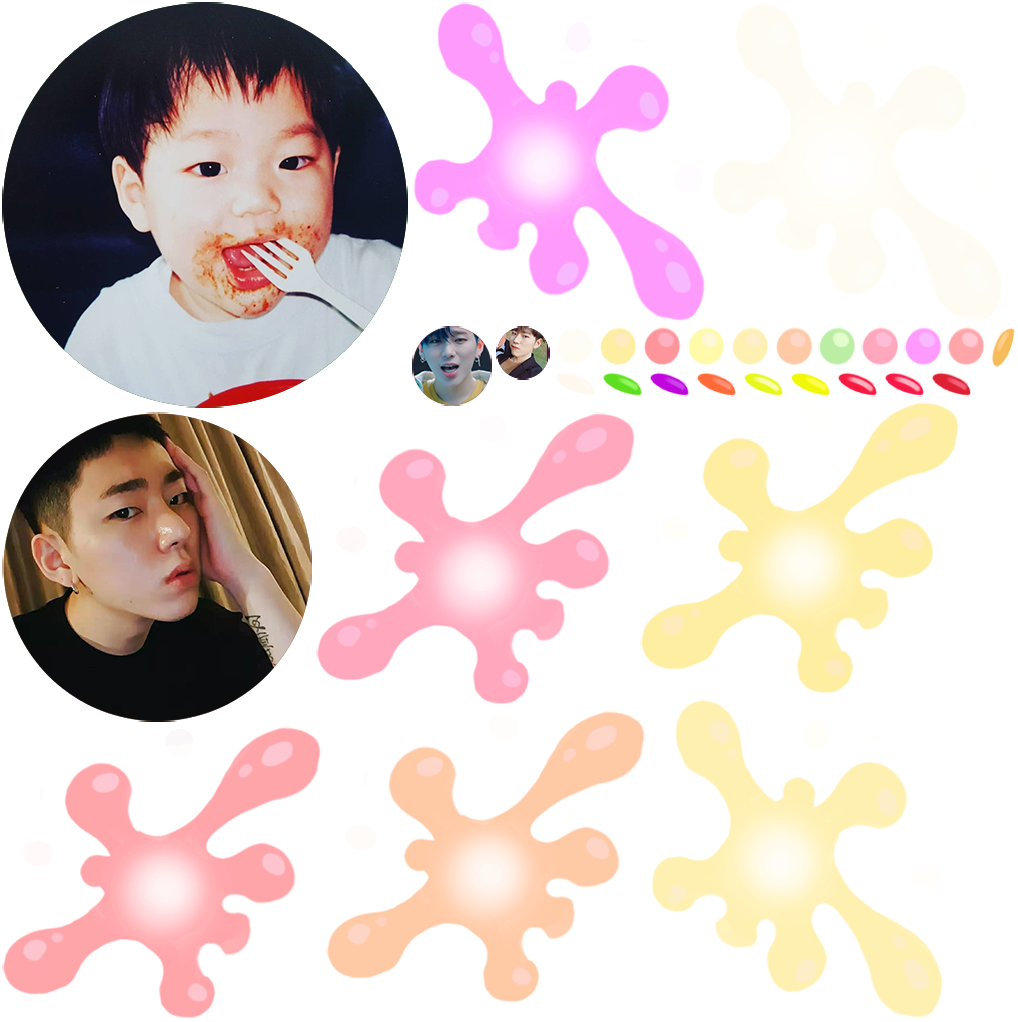
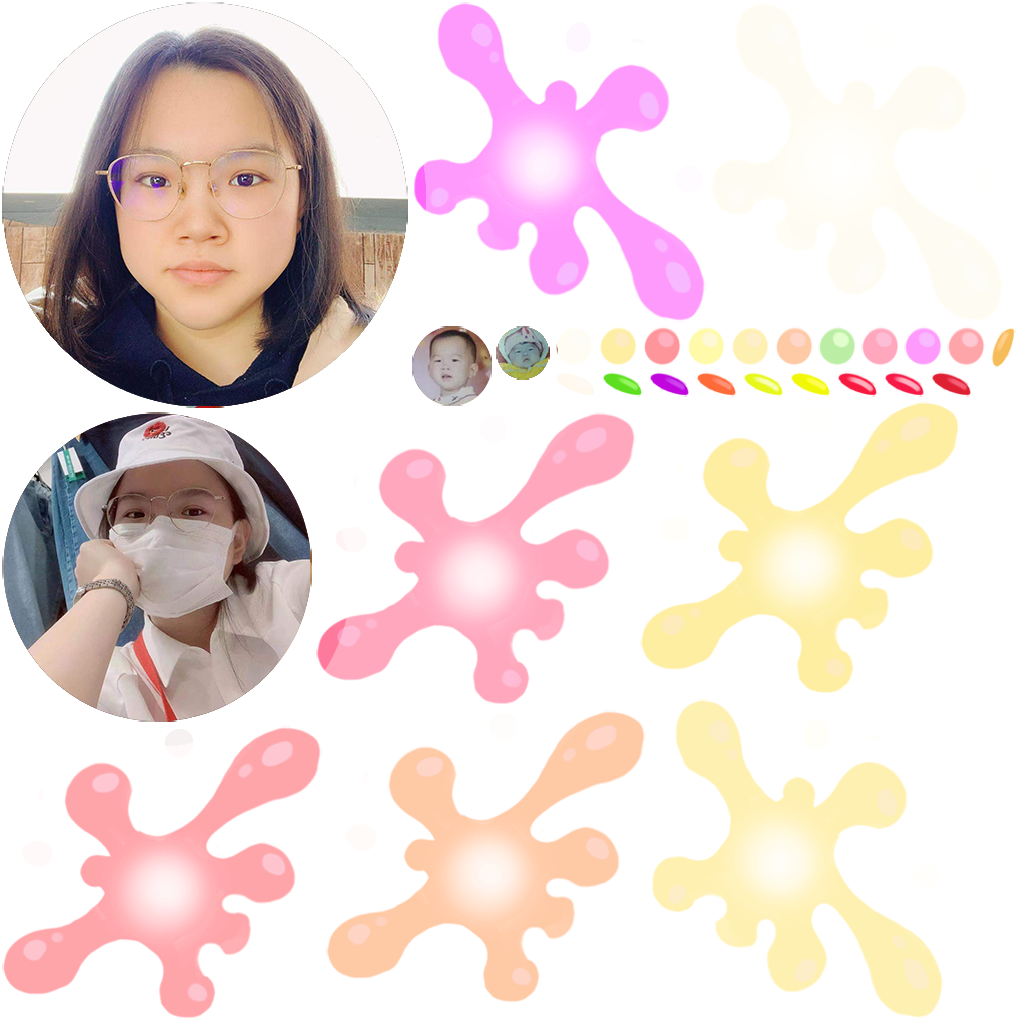
nitial commit

Changed region(s): [[0.0, 0.0, 0.4263, 0.728], [0.3959, 0.3033, 0.5481, 0.3943]]

diff --git a/index.html b/index.html
@@ -4,7 +4,7 @@
 <head>
     <meta charset="utf-8">
 
-    <title>合成禹智皓</title>
+    <title>合成王茗悦</title>
 
     <!--http://www.html5rocks.com/en/mobile/mobifying/-->
     <meta name="viewport" content="width=device-width,user-scalable=no,initial-scale=1, minimum-scale=1,maximum-scale=1" />
@@ -109,7 +109,7 @@
             //        console.log("window.navigator.language",window.navigator.language);
 
             if (window.navigator.language == "zh-CN" || window.navigator.language == "zh-cn") {
-                document.title = "合成禹智皓";
+                document.title = "合成王茗悦";
             } 
 
 
